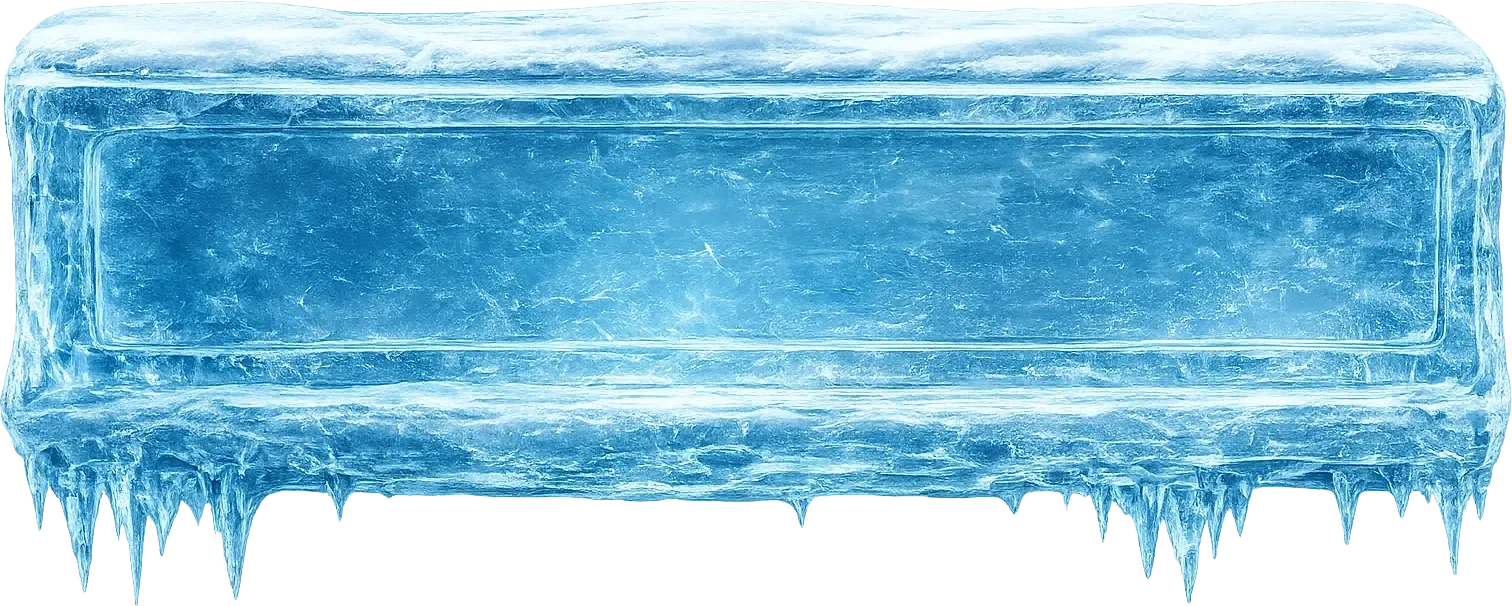
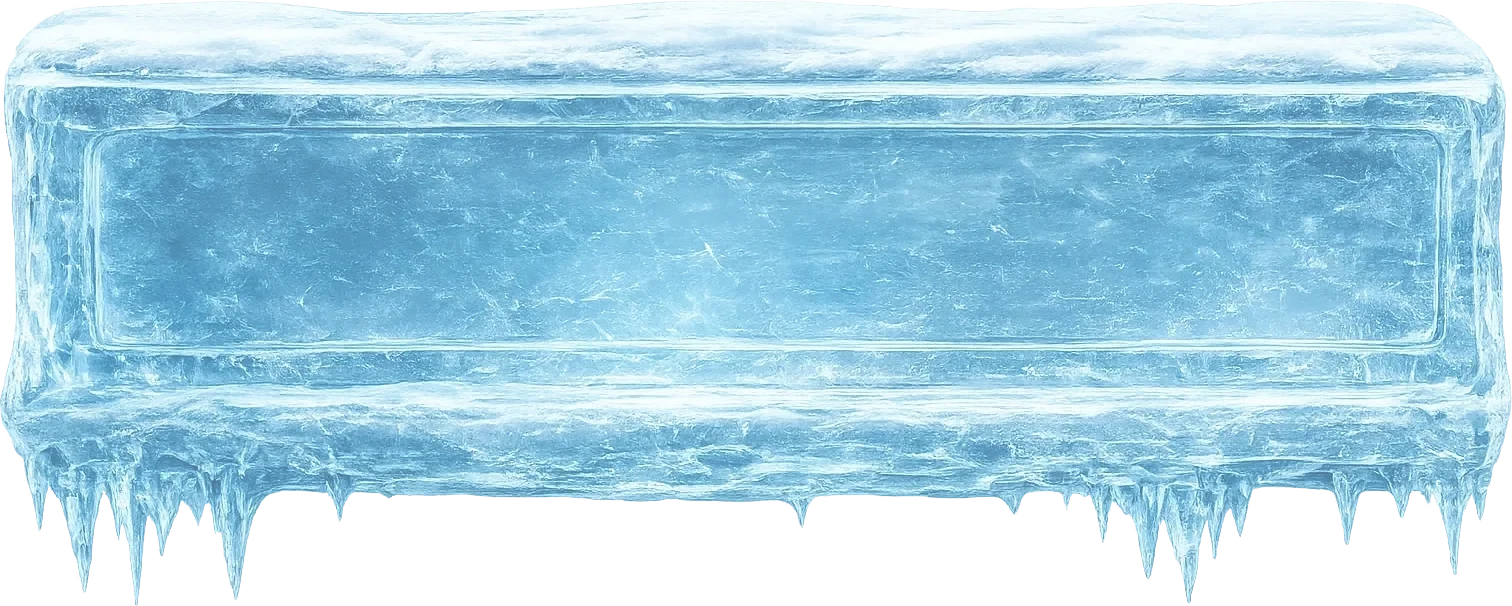
feat(frostline): fix ice-frame corner glow + make the ice semi-transparent (wos70)
Two container refinements from user feedback:

1) Sharp-cornered discoloration around the ice. The .controls box-shadow
   (cyan glow + drop shadow) was rectangular — it followed the element box,
   so its hard corners poked out from behind the organic ice silhouette.
   Replaced box-shadow with filter: drop-shadow(...), which casts from the
   rendered alpha (the ice shape) instead of the box, so the glow now hugs
   the icicles/snow edges — no more rectangle corners.

2) Semi-transparent ice. Re-encoded assets/ice-frame.webp with alpha x0.70
   so the winter background photo shows through the ice block (glacier
   look). The tabs + search are their own opaque elements on top, so they
   stay fully readable.

(A card-frame ice design the user sent is queued — its image hasn't synced
to the tooling yet; will build next.)

Cache: wos69 -> wos70 (SW cache v11 -> v12).

diff --git a/apps/text-art-library/style.css b/apps/text-art-library/style.css
@@ -3363,10 +3363,14 @@ nav.controls {
   border-image-width: 42px 60px 48px 60px !important;
   border-image-outset: 22px 4px 30px 4px !important;   /* snow up, icicles down */
   border-image-repeat: stretch stretch !important;
-  box-shadow:
-    0 0 26px rgba(96,206,255,0.40),      /* cyan glow halo */
-    0 0 54px rgba(60,160,230,0.26),
-    0 12px 32px rgba(0,0,0,0.45) !important;
+  /* wos70: no box-shadow — it was rectangular (followed the .controls box)
+     and its sharp corners showed behind the organic ice edges. The ice
+     image carries its own glow; a soft organic glow is added via
+     filter: drop-shadow, which follows the ice's actual alpha silhouette
+     instead of the box. */
+  box-shadow: none !important;
+  filter: drop-shadow(0 6px 12px rgba(0, 20, 45, 0.45))
+          drop-shadow(0 0 16px rgba(96, 206, 255, 0.28)) !important;
   padding: 6px 26px 4px !important;      /* content sits in the ice body */
 }
 /* This frame has its own snow — retire the separate snow cap. */

diff --git a/apps/text-art-library/index.html b/apps/text-art-library/index.html
@@ -19,7 +19,7 @@
   <link rel="preconnect" href="https://fonts.googleapis.com">
   <link rel="preconnect" href="https://fonts.gstatic.com" crossorigin>
   <link rel="stylesheet" href="https://fonts.googleapis.com/css2?family=Fredoka:wght@500;600;700&family=Nunito:wght@400;600;700;800&family=Roboto:wght@400;500;700&family=Noto+Sans:wght@400;700&family=Noto+Sans+JP:wght@400;500;700&family=Noto+Sans+KR:wght@400;700&family=Noto+Sans+Tibetan:wght@400;700&family=Noto+Sans+Symbols+2&family=JetBrains+Mono:wght@400;600&display=swap">
-  <link rel="stylesheet" href="style.css?v=wos69">
+  <link rel="stylesheet" href="style.css?v=wos70">
   <style id="hamburger-themes-ui">
     /* Respect the [hidden] attribute even when our display:flex rules win cascade */
     [hidden] { display: none !important; }
@@ -1450,7 +1450,7 @@
   </script>
   <script src="art.js?v=ds7r2"></script>
   <script src="palette-data.js?v=wos6"></script>
-  <script src="app.js?v=wos69"></script>
+  <script src="app.js?v=wos70"></script>
   <script>
     /* PWA: register the service worker so the app is installable and runs
        offline. Only on production-like origins (https or localhost). */

diff --git a/apps/text-art-library/app.js b/apps/text-art-library/app.js
@@ -1266,7 +1266,7 @@ if (drawerSectionsRoot) {
  * integration is optional on the server side; on the client we just render
  * whatever the function returns.
  */
-const APP_VERSION = 'wos69';
+const APP_VERSION = 'wos70';
 
 function captureFeedbackContext() {
   let editorState = 'locked';

diff --git a/apps/text-art-library/sw.js b/apps/text-art-library/sw.js
@@ -3,7 +3,7 @@
  * the install prompt. Bumps the cache name on every release so old assets
  * are evicted cleanly.
  */
-const CACHE = 'frostline-v11-wos69';
+const CACHE = 'frostline-v12-wos70';
 /* SHELL urls are stored WITHOUT version query strings; cache lookups use
  * { ignoreSearch: true } so a request for /app.js?v=wos60 still matches
  * the cached /app.js. This avoids re-listing every URL on each version bump. */